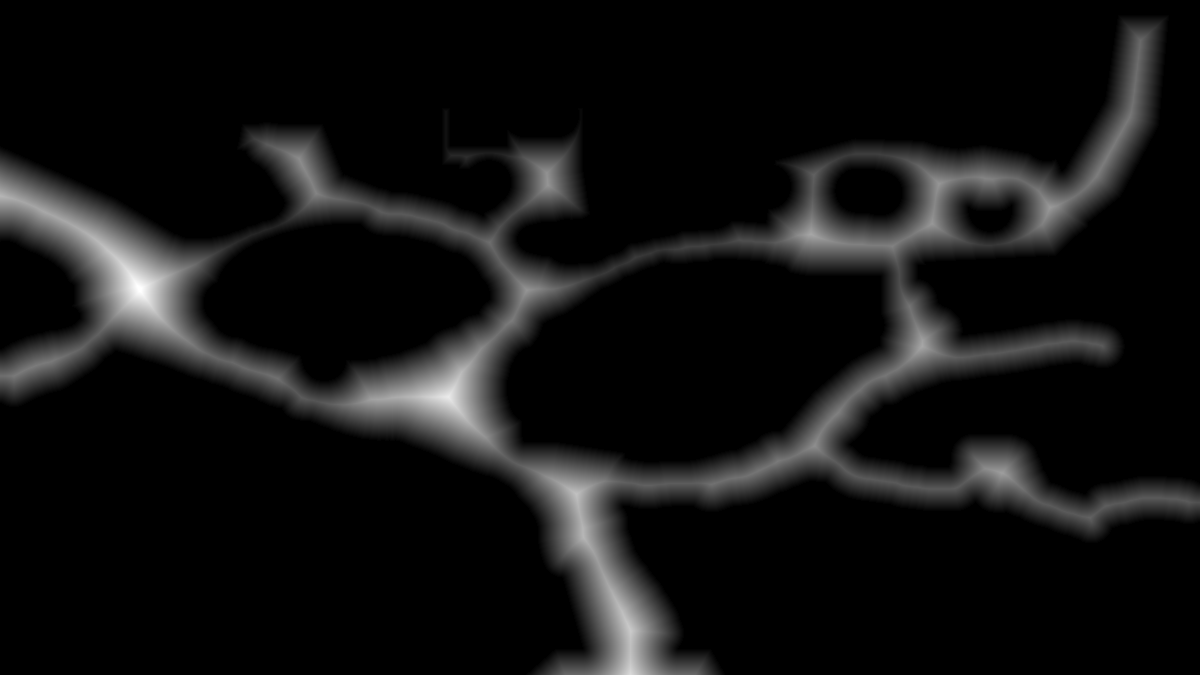
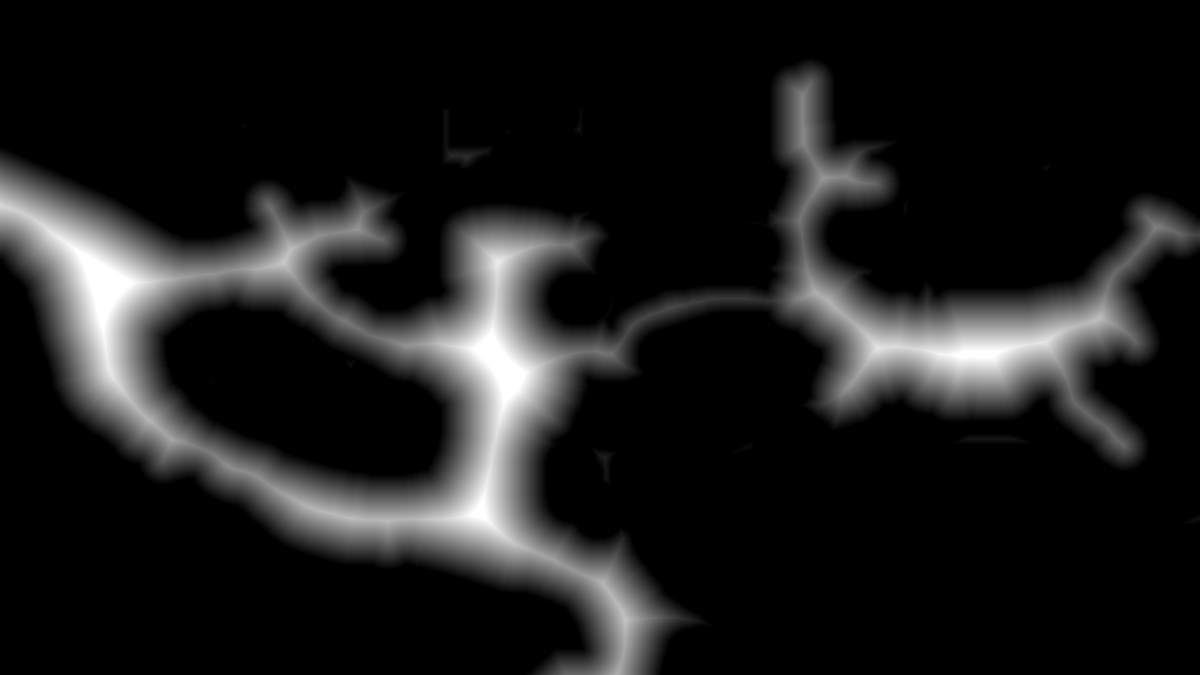
feat(pallet-anime3q): apply 6 new walkmasks/SDFs and remove stale old-art occluders

diff --git a/core/kanto-anime3q-pilot-v1.js b/core/kanto-anime3q-pilot-v1.js
@@ -142,12 +142,7 @@ const MAPS={
       {cx:500,cy:192,r:9},
       {cx:745,cy:192,r:9}
     ],
-    occluders:[
-      {id:'centro-lamp-west',kind:'lamp',mask:'assets/story/pallet/anime3q/masks/centro_lamp_west.png',rect:[433.493,248.193,462.201,350.053],baselineY:348,minY:248,xPad:16},
-      {id:'centro-lamp-nw',kind:'lamp',mask:'assets/story/pallet/anime3q/masks/centro_lamp_nw.png',rect:[485.885,98.273,514.593,195.829],baselineY:194,minY:98,xPad:16},
-      {id:'centro-lamp-ne',kind:'lamp',mask:'assets/story/pallet/anime3q/masks/centro_lamp_ne.png',rect:[730.622,108.316,759.33,195.829],baselineY:194,minY:108,xPad:16},
-      {id:'centro-cherry-canopy',kind:'canopy',mask:'assets/story/pallet/anime3q/masks/centro_cherry_canopy.png',rect:[665,0,910,145],baselineY:172,minY:0,xPad:12}
-    ]
+    occluders:[]
   },
 
   'pallet-jardins-3q':{
@@ -230,13 +225,7 @@ const MAPS={
       {cx:988,cy:224,r:12},
       {cx:868,cy:330,r:9}
     ],
-    occluders:[
-      {id:'jardins-lamp-west',kind:'lamp',mask:'assets/story/pallet/anime3q/masks/jardins_lamp_west.png',rect:[48.086,205.871,76.794,296.254],baselineY:294,minY:206,xPad:16},
-      {id:'jardins-lamp-central',kind:'lamp',mask:'assets/story/pallet/anime3q/masks/jardins_lamp_central.png',rect:[538.278,152.072,566.986,248.193],baselineY:246,minY:152,xPad:16},
-      {id:'jardins-lamp-east',kind:'lamp',mask:'assets/story/pallet/anime3q/masks/jardins_lamp_east.png',rect:[854.067,238.151,882.775,334.272],baselineY:332,minY:238,xPad:16},
-      {id:'jardins-cherry-canopy',kind:'canopy',mask:'assets/story/pallet/anime3q/masks/jardins_cherry_canopy.png',rect:[690,62,850,168],baselineY:186,minY:62,xPad:12},
-      {id:'jardins-great-tree-canopy',kind:'canopy',mask:'assets/story/pallet/anime3q/masks/jardins_great_tree_canopy.png',rect:[845,0,1085,92],baselineY:118,minY:0,xPad:12}
-    ]
+    occluders:[]
   },
 
   'pallet-lab-3q':{
@@ -287,12 +276,7 @@ const MAPS={
     blocks:[],
     ellipses:[],
     circles:[],
-    occluders:[
-      {id:'lab-rota1-arch',kind:'arch',mask:'assets/story/pallet/anime3q/masks/lab_rota1_arch.png',rect:[462,4,628,86],baselineY:78,minY:0,xPad:14},
-      {id:'lab-lamp-sw',kind:'lamp',mask:'assets/story/pallet/anime3q/masks/lab_lamp_sw.png',rect:[402,404,434,492],baselineY:486,minY:404,xPad:16},
-      {id:'lab-lamp-se',kind:'lamp',mask:'assets/story/pallet/anime3q/masks/lab_lamp_se.png',rect:[877,418,909,498],baselineY:492,minY:418,xPad:16},
-      {id:'lab-lamp-mid-left',kind:'lamp',mask:'assets/story/pallet/anime3q/masks/lab_lamp_mid_left.png',rect:[121,246,153,336],baselineY:330,minY:246,xPad:16}
-    ]
+    occluders:[]
   },
 
   'pallet-costa-3q':{
@@ -352,10 +336,7 @@ const MAPS={
     blocks:[],
     ellipses:[],
     circles:[],
-    occluders:[
-      {id:'costa-lamp-plaza-right',kind:'lamp',mask:'assets/story/pallet/anime3q/masks/costa_lamp_plaza_right.png',rect:[781,170,813,248],baselineY:242,minY:170,xPad:16},
-      {id:'costa-lamp-pier',kind:'lamp',mask:'assets/story/pallet/anime3q/masks/costa_lamp_pier.png',rect:[893,332,925,412],baselineY:406,minY:332,xPad:16}
-    ]
+    occluders:[]
   },
 
   'pallet-colinas-3q':{
@@ -405,9 +386,7 @@ const MAPS={
     blocks:[],
     ellipses:[],
     circles:[],
-    occluders:[
-      {id:'colinas-lamp-upper',kind:'lamp',mask:'assets/story/pallet/anime3q/masks/colinas_lamp_upper.png',rect:[950,190,982,284],baselineY:278,minY:190,xPad:16}
-    ]
+    occluders:[]
   },
 
   'pallet-arredores-3q':{
@@ -458,10 +437,7 @@ const MAPS={
     blocks:[],
     ellipses:[],
     circles:[],
-    occluders:[
-      {id:'rota1-lamp-crossroads',kind:'lamp',mask:'assets/story/pallet/anime3q/masks/rota1_lamp_crossroads.png',rect:[357,224,389,342],baselineY:336,minY:224,xPad:16},
-      {id:'rota1-signpost',kind:'sign',mask:'assets/story/pallet/anime3q/masks/rota1_signpost.png',rect:[556,240,590,336],baselineY:330,minY:240,xPad:16}
-    ]
+    occluders:[]
   }
 };
 

diff --git a/index.html b/index.html
@@ -343,7 +343,7 @@ body{padding-left:var(--psy-safe-left);padding-right:var(--psy-safe-right)}
 <script src="core/kanto-pallet-vegetation-v1.js?build=PALLET_MODULAR_TREES_V1_20261112"></script>
 <script src="core/kanto-gym-campaign-gate-v1.js?build=KANTO_GYM_CAMPAIGN_V69_20261107"></script>
 <script src="core/kanto-pallet-hd-v1.js?build=PALLET_HD_PHASE1_V1_20261114"></script>
-<script src="core/kanto-anime3q-pilot-v1.js?build=PALLET_ANIME3Q_V6_EXILED_PORTALS_20261116"></script>
+<script src="core/kanto-anime3q-pilot-v1.js?build=PALLET_ANIME3Q_V6_WALKMASKS_20261116"></script>
 <script src="core/kanto-world-v2.js?build=KANTO_PALLET_ANIME3Q_V6_ANIM_STATE_20261116"></script>
 <link rel="stylesheet" href="css/hobbies-v1.css?build=HOBBIES_GALLERY_V1_20261107">
 <link rel="stylesheet" href="css/hobby-campaign-v1.css?build=CAMPAIGN_VIP_GATE_VISUAL_V4_20261108">
